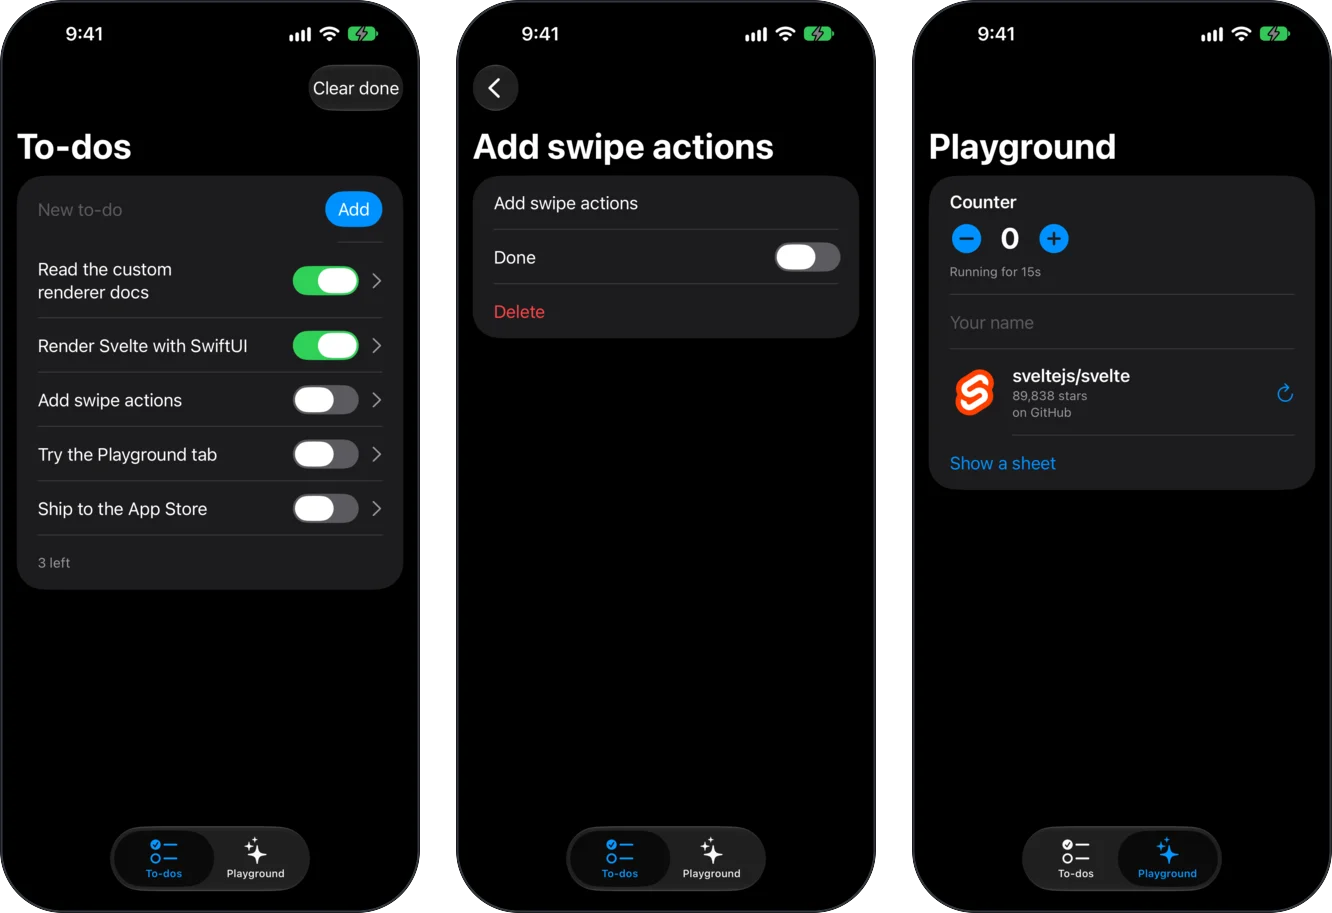
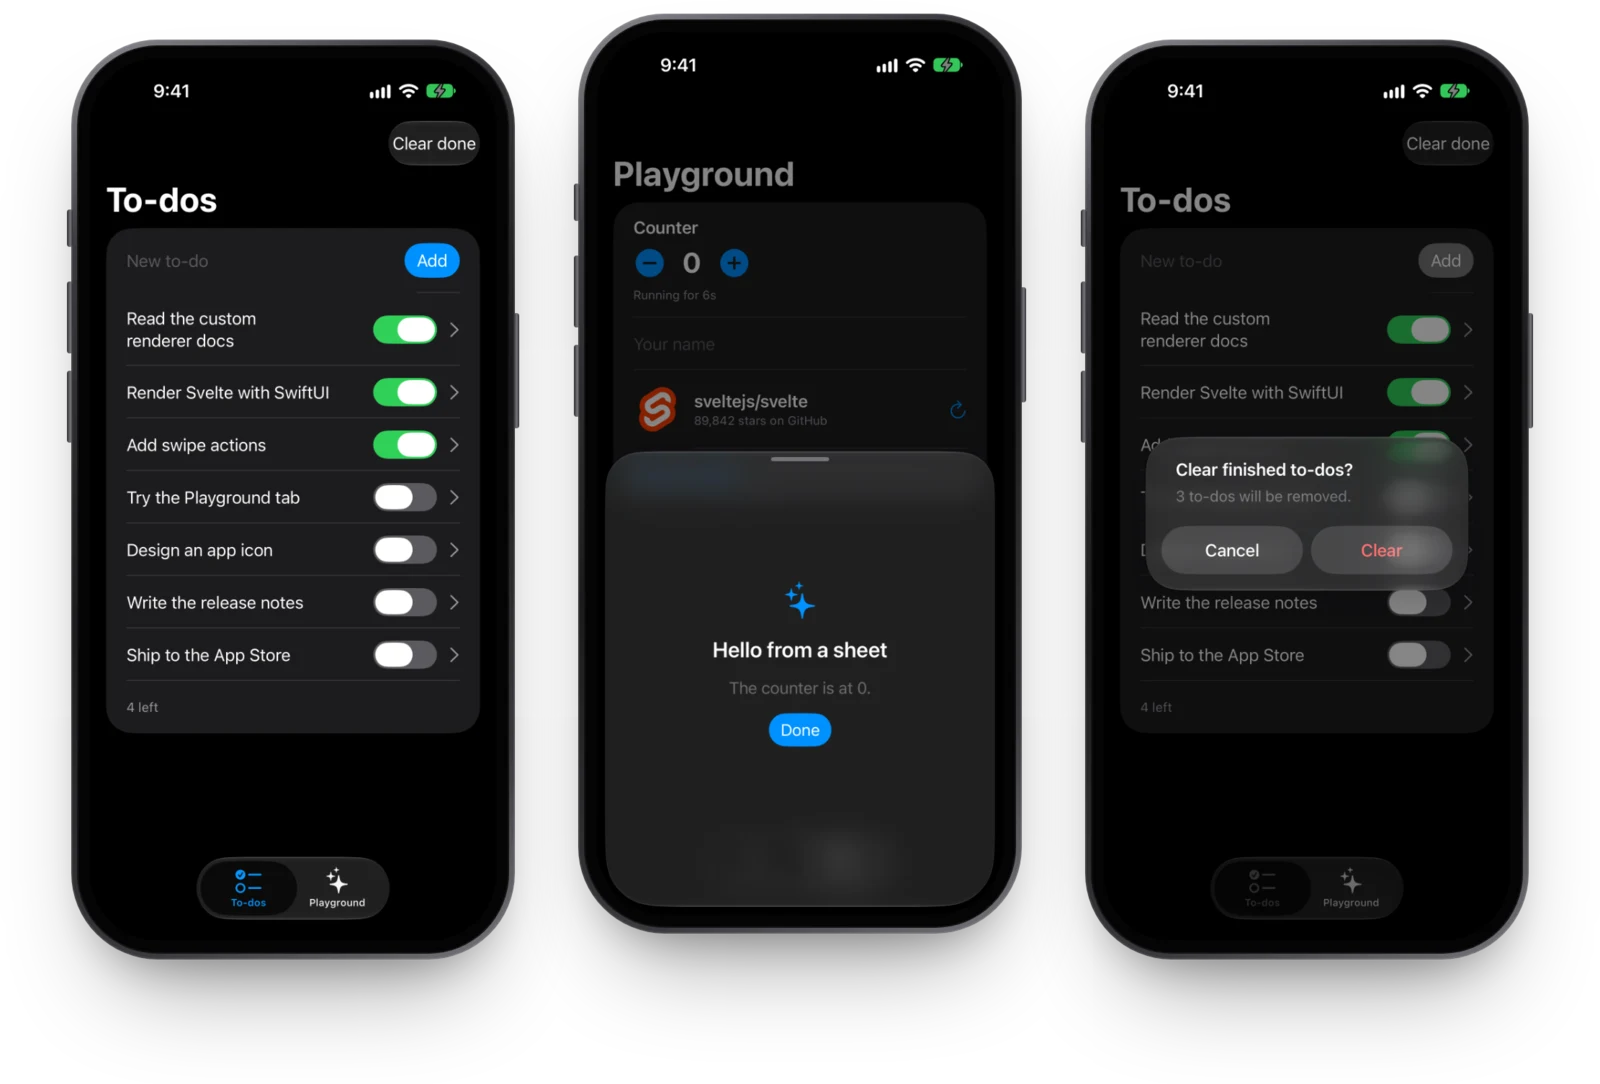
docs: show framed screenshots of richer example screens

diff --git a/README.md b/README.md
@@ -30,7 +30,7 @@
 <p align="center">
   <picture>
     <source media="(prefers-color-scheme: dark)" srcset=".github/assets/screens-dark.webp">
-    <img src=".github/assets/screens-light.webp" width="720" alt="Three screens of the example app on an iPhone: a to-do list with toggles and a Clear done button, a to-do's detail screen with a Done toggle and a Delete button, and a playground with a counter, a text field, and the Svelte logo with the repository's star count fetched from GitHub">
+    <img src=".github/assets/screens-light.webp" width="800" alt="Three iPhones running the example app: a to-do list with toggles, the Playground tab with a sheet open over a counter and the Svelte repository's star count, and an alert asking whether to clear finished to-dos">
   </picture>
 </p>
 
